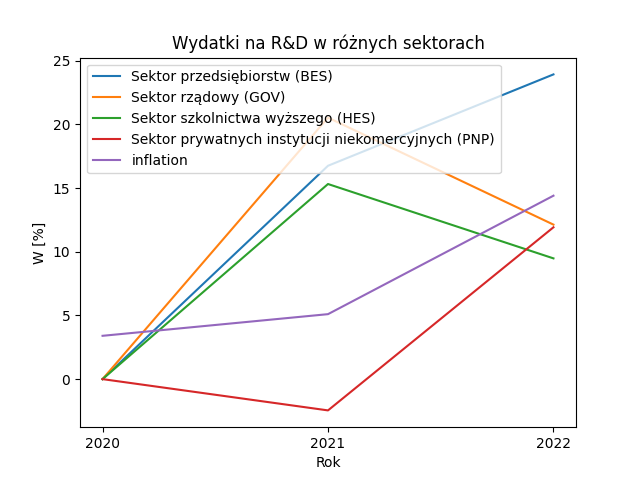
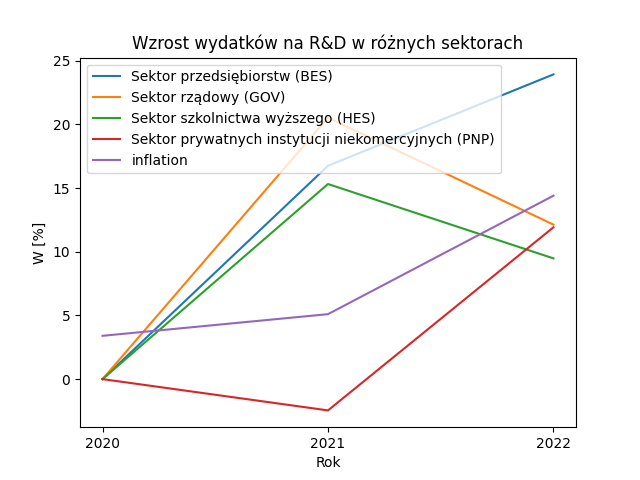
fixes

Changed region(s): [[0.1875, 0.0625, 0.8125, 0.125]]

diff --git a/PROJEKT-1/Problem_2_R&D_costs_vs_inflation.py b/PROJEKT-1/Problem_2_R&D_costs_vs_inflation.py
@@ -106,7 +106,7 @@ for sector in sectors:
     plt.plot(years, values, label=sector)
 inflation = INFLATION_VALUES[-3:]
 plt.plot(years, inflation, label="inflation")
-plt.title("WWzrost wydatków na R&D w różnych sektorach")
+plt.title("Wzrost wydatków na R&D w różnych sektorach")
 plt.xlabel("Rok")
 plt.ylabel("W [%]")
 plt.legend()
